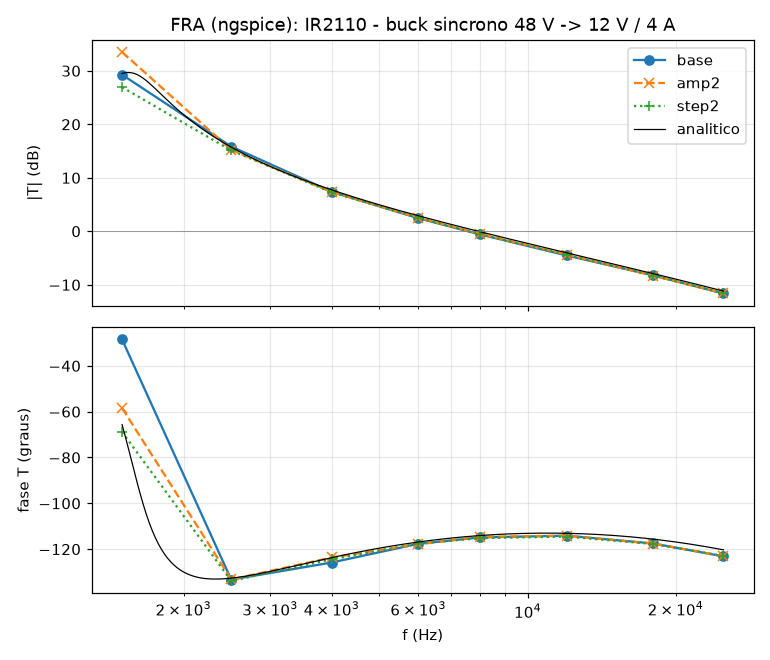
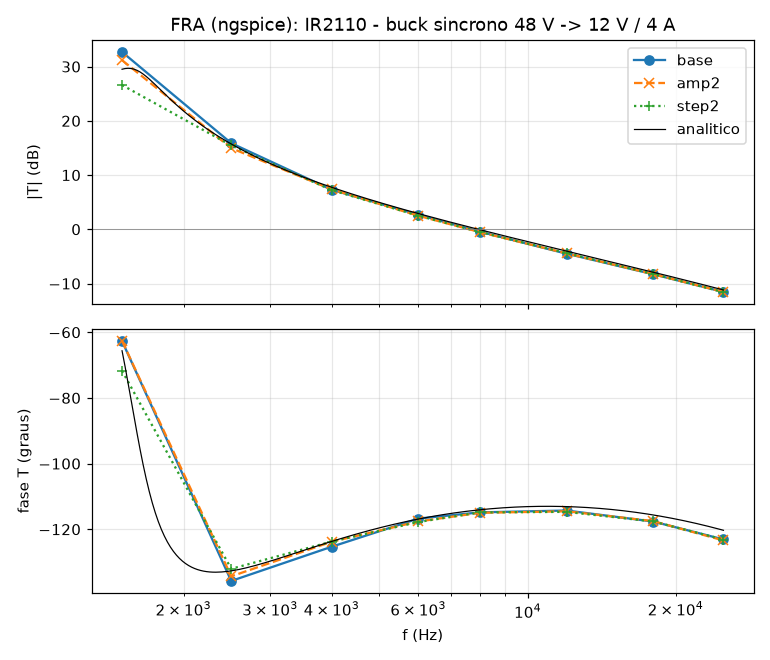
SG3524 README: max-step tables for the final model; IR2110 FRA rerun
SG3524: "What to put on the schematic" now shows the final model at
CT = 10 nF (failed toggles and period vs max step, Gear and trapezoidal:
0-1 failed toggles in 165 at any step, period 100.75-100.86 us) and at
CT = 1.25 nF, the push-pull example (21 of 94 toggles lost at 500 ns,
none in ~920 at 200 and 100 ns). Max-step advice: 1-2 % of the switching
period, and near or below the dead time when the outputs are separate.
Verification table, period-accuracy caveat and parameter list updated
(GDIS/VCTMIN/GLAT/TLAT/QON); Notes explain the rebuilt discharge cell.
Stale IDIS comments in SG3524.lib fixed; the push-pull example's max-step
comment now describes what the final model does at 500 ns.

IR2110: FRA rerun with the current tool (adjacent-bin noise estimate):
crossover 7.68 kHz, phase margin 64.9 deg, <= 0.18 dB / 1.6 deg, within
0.48 dB of the averaged loop gain.

tools/fra: optional step_factor for the smaller-step run (labelled by
its factor in the output), documented with save_extra.

Claude-Session: https://claude.ai/code/session_01FdFjTSNcxFBPGziKjDrh7o

diff --git a/tools/fra/fra_ngspice.py b/tools/fra/fra_ngspice.py
@@ -189,7 +189,11 @@ def main(cfgfile):
         s = re.sub(r"^(\.SUBCKT %s .*)$" % re.escape(sub), r"\1 PARAMS:", s, count=1, flags=re.M)
         open(os.path.join(workdir, ng), "w").write(s)
     A, dt = cfg["amp"], cfg["maxstep"]
-    variants = [("base", A, dt), ("amp2", 2 * A, dt), ("step2", A, dt / 2)]
+    # step_factor: the "dt/2" run uses dt*step_factor (0.5 unless the circuit
+    # cannot run at half the step - then say so in its config)
+    sf = cfg.get("step_factor", 0.5)
+    sl = "dt/2" if sf == 0.5 else "%gdt" % sf
+    variants = [("base", A, dt), ("amp2", 2 * A, dt), ("step2", A, dt * sf)]
     out = {}
     with cf.ThreadPoolExecutor(max_workers=3) as ex:
         stem = os.path.splitext(os.path.basename(cfgfile))[0]
@@ -205,7 +209,7 @@ def main(cfgfile):
         print("FAIL  %s: transiente com injecao nao completou" % title)
         return 1
     ana = cfg.get("analytic")
-    hdr = "%10s %9s %8s %6s | %7s %6s | %7s %6s | %9s" % ("f (Hz)", "|T| dB", "fase", "SNR", "d(2A)", "dfase", "d(dt/2)", "dfase", "tol dB/o")
+    hdr = "%10s %9s %8s %6s | %7s %6s | %7s %6s | %9s" % ("f (Hz)", "|T| dB", "fase", "SNR", "d(2A)", "dfase", "d(%s)" % sl, "dfase", "tol dB/o")
     if ana: hdr += " | %9s %8s" % ("analit dB", "fase")
     print(hdr)
     worst_g = worst_p = 0
@@ -239,7 +243,7 @@ def main(cfgfile):
             r2 = max(abs(ga - gs) / ag, abs(das) / ap)
             if r > 1 and r2 <= 1:
                 outliers += 1
-                line += "  <- nominal fora (2x e dt/2 concordam)"
+                line += "  <- nominal fora (2x e %s concordam)" % sl
                 r = r2
             else:
                 worst_g = max(worst_g, abs(ga - g), abs(gs - g))
@@ -252,11 +256,11 @@ def main(cfgfile):
     else:
         print("RESULT sem cruzamento de 0 dB na faixa medida")
     ok = worst_r <= 1 and judged >= 3
-    msg = ("linear (2x amplitude) e independente do passo (dt/2): pior desvio %.2f dB / %.1f graus nos %d pontos "
+    msg = ("linear (2x amplitude) e independente do passo (%s): pior desvio %.2f dB / %.1f graus nos %d pontos "
            "com SNR >= %g dB (%.0f %% da tolerancia, que e o maior entre %g dB / %g graus e 3 sigma do ruido)") % (
-        worst_g, worst_p, judged, snr_min, 100 * worst_r, tol_g, tol_p)
+        sl, worst_g, worst_p, judged, snr_min, 100 * worst_r, tol_g, tol_p)
     if outliers:
-        msg += "; %d ponto(s) com o nominal fora e 2x / dt/2 concordando" % outliers
+        msg += "; %d ponto(s) com o nominal fora e 2x / %s concordando" % (outliers, sl)
     if ana and fc:
         ga = [abs(20 * math.log10(abs(ana(r[0]))) - r[1]) for r in out["base"] if r[3] >= snr_min]
         msg += "; vs analitico ate %.2f dB" % max(ga)

diff --git a/SG3524/README.md b/SG3524/README.md
@@ -43,39 +43,41 @@ X1 1 2 3 4 5 6 7 8 9 10 11 12 13 14 15 16 SG3524
 One directive, and it is the `.tran` itself:
 
 ```
-.tran 0 <stop> 0 <maxstep>        e.g.  .tran 0 4m 0 50n
+.tran 0 <stop> 0 <maxstep>        e.g.  .tran 0 4m 0 100n
 ```
 
-**This one is not optional.** Set `maxstep` to roughly **a tenth of the dead
-time** (the dead time is 0.5 µs per 10 nF of C<sub>T</sub>): 50 ns at
-C<sub>T</sub> = 10 nF, 100 ns at 22 nF.
+Set `maxstep` to **1–2 % of the switching period**. The examples run at
+50–100 kHz with 100–200 ns, and their loop gain does not move when the step
+is halved (see *LTspice .FRA* below); a coarser step lands the PWM edges on
+the solver's step grid and the duty cycle jitters. If the power stage uses
+ideal switches (`S` elements), also add `.options method=gear` — the
+examples do, for the reason given in the same section.
 
-The reason is the blanking pulse. It *is* the dead time — 0.5 µs at
-C<sub>T</sub> = 10 nF — and it is the flip-flop's only clock. Let the solver
-take steps as long as that pulse and it steps straight over it, the flip-flop
-never sees a clock edge, and one output fires several cycles in a row while the
-other stays dark. Measured at C<sub>T</sub> = 10 nF:
+**With the outputs separate (push-pull), also keep `maxstep` near or below
+the dead time** (0.5 µs per 10 nF of C<sub>T</sub>). The blanking pulse *is*
+the dead time and the flip-flop's only clock; a step much longer than the
+pulse can skip it, and then the same output fires twice in a row — in a
+push-pull that walks the transformer towards saturation. With the outputs
+paralleled (buck, boost, …) a skipped toggle changes nothing. The discharge
+cell was rebuilt so that a long step cannot leave it half-way (see *Notes*),
+which made this rare, but not impossible. Measured at R<sub>T</sub> = 10 k
+("failed toggle" = the same output firing twice in a row):
 
-| maxstep | vs dead time | failed toggles |
-|---|---|---|
-| free running | — | 70 of 169 |
-| 500 ns | 1/1 | 76 of 168 |
-| 250 ns | 1/2 | 0 of 170 |
-| 100 ns | 1/5 | 0 of 168 |
-| 50 ns | 1/10 | 0 of 167 |
+| C<sub>T</sub> (dead time) | maxstep | failed toggles, Gear / trapezoidal | period, Gear / trapezoidal (cycle-to-cycle rms) |
+|---|---|---|---|
+| 10 nF (0.5 µs) | free running | 0 / 1 of 165 | 100.80 µs (0.01 %) / 100.82 µs (0.03 %) |
+| | 500 ns | 1 / 0 of 165 | 100.78 µs (0.04 %) / 100.83 µs (0.20 %) |
+| | 250 ns | 0 / 0 of 165 | 100.79 µs (0.05 %) / 100.86 µs (0.20 %) |
+| | 100 ns | 0 / 0 of 165 | 100.75 µs (0.04 %) / 100.84 µs (0.23 %) |
+| | 50 ns | 0 / 0 of 165 | 100.77 µs (0.07 %) / 100.84 µs (0.15 %) |
+| 1.25 nF (67 ns), the push-pull example | 500 ns | **21 of 94** (Gear) | 12.72 µs (0.08 %) |
+| | 200 ns | 0 / 0 of ~920 | 12.72 µs (0.08 %) / 12.74 µs (0.45 %) |
+| | 100 ns | 0 / 0 of ~920 | 12.72 µs (0.09 %) / 12.74 µs (0.41 %) |
 
-It survives down to half the dead time; a tenth leaves room for the rest of
-your circuit. Period accuracy improves on the same axis:
-
-| maxstep (C<sub>T</sub> = 22 nF) | period | valley |
-|---|---|---|
-| free running | 100.9 µs | 0.664 V |
-| 200 ns | 99.7 µs | 0.355 V |
-| 100 ns | 103.2 µs | 0.533 V |
-| 50 ns | 105.5 µs | 0.521 V |
-| 20 ns | 105.6 µs | 0.558 V |
-
-It has converged by 50 ns — 20 ns moves the answer by 0.1 %.
+At C<sub>T</sub> = 22 nF (Gear) the period is 221.5 µs and the valley
+0.593 V at every step from free running down to 20 ns. The period itself no
+longer depends on the step; only the toggling does, and only with steps as
+long as the dead time or longer (or none at all).
 
 **Do not relax the tolerances.** `reltol`, `abstol`, `vntol` and `trtol` should
 stay at their defaults. Relaxing them no longer breaks the model (it did before
@@ -167,9 +169,11 @@ X1 … SG3524 VREFNOM=4.6 VOS=10m IBIAS=10u DMAX=1
 ```
 
 Useful ones: `VREFNOM VDROP IREFSC ICC` (reference/supply), `VRT VCTL VCTH
-IDIS` (oscillator), `VCMIN VCMAX DMAX` (comparator), `GMEA IEAMAX VOS IBIAS
-REAO CEAO` (error amp), `VCLTH GCLV` (current limit), `VSDTH` (shutdown),
-`VCESAT RCE RLEAK` (output transistors).
+GDIS VCTMIN` (oscillator: ramp ends, discharge conductance and its floor),
+`VCMIN VCMAX DMAX` (comparator), `GMEA IEAMAX VOS IBIAS REAO CEAO` (error
+amp), `VCLTH GCLV` (current limit), `VSDTH` (shutdown), `VCESAT RCE RLEAK`
+(output transistors). `GLAT TLAT QON` set the discharge cell (see *Notes*);
+leave them alone unless you are changing the model.
 
 ## Verification
 
@@ -190,18 +194,18 @@ All 30 checks pass. What they pin down:
 | V<sub>REF</sub> load regulation at 20 mA | 20 mV | 20 mV typ |
 | V<sub>REF</sub> short-circuit current | 105 mA | 100 mA |
 | Standby I<sub>IN</sub> at V<sub>IN</sub> = 40 V | 8.0 mA | 8 mA typ, 10 mA max |
-| Oscillator period, R<sub>T</sub>=10 k, C<sub>T</sub>=10 nF | 101.0 µs | R<sub>T</sub>·C<sub>T</sub> = 100 µs |
-| …at C<sub>T</sub> = 100 nF / 2 nF / 1 nF | 1001 µs / 20.9 µs / 10.7 µs | 1000 / 20 / 10 µs |
+| Oscillator period, R<sub>T</sub>=10 k, C<sub>T</sub>=10 nF | 100.8 µs | R<sub>T</sub>·C<sub>T</sub> = 100 µs |
+| …at C<sub>T</sub> = 100 nF / 2 nF / 1 nF | 1006 µs / 20.28 µs / 10.20 µs | 1000 / 20 / 10 µs |
 | Dead time at C<sub>T</sub> = 0.01 µF | 0.50 µs | 0.5 µs |
-| Pin 3 amplitude | 3.48 V | 3.5 V<sub>p</sub> |
+| Pin 3 amplitude | 3.49 V | 3.5 V<sub>p</sub> |
 | Pin 6 voltage | 3.600 V | 3.6 V |
 | Duty at V(COMP) = 1.0 V | 0.0 % | zero duty threshold 1 V |
-| Duty at V(COMP) = 3.5 V | 45.0 % / output | max duty threshold 3.5 V, 45 % |
-| Duty at V(COMP) = 2.25 V | 22.5 % | linear |
-| Outputs paralleled | 89.4 % at f<sub>osc</sub> | 0–90 % single ended |
+| Duty at V(COMP) = 3.5 V | 44.6 % / output | max duty threshold 3.5 V, 45 % |
+| Duty at V(COMP) = 2.25 V | 21.6 % | linear |
+| Outputs paralleled | 89.2 % at f<sub>osc</sub> | 0–90 % single ended |
 | Output phasing | 180°, never overlapping | pulse-steering flip-flop + blanking |
-| V<sub>CE(sat)</sub> at 50 mA | 1.006 V | 1 V typ, 2 V max |
-| Current limit, 200 mV sense | 25.4 % duty | “input voltage required to get 25 % duty” |
+| V<sub>CE(sat)</sub> at 50 mA | 1.00 V | 1 V typ, 2 V max |
+| Current limit, 200 mV sense | 24.3 % duty | “input voltage required to get 25 % duty” |
 | Current limit, 100 / 300 mV | no action / outputs off | 200 mV threshold |
 | Shutdown pin 10 = 2 V | pin 9 → 0.22 V, outputs off | active high |
 | External sync on pin 3 | locks to 80 µs master | sync via pin 3 |
@@ -321,23 +325,15 @@ Read this before trusting a result.
   keeps working outside them, the real part does not.
 * **No 300 kHz ceiling.** That is a device limit, not a formula limit; the model
   will happily run past it.
-* **Period accuracy degrades at small C<sub>T</sub>.** Fixed internal delays
-  (latch, blanking edge, comparator windows) add a roughly constant amount to
-  every cycle, so the period runs +0.1 % at C<sub>T</sub> = 100 nF, +1 % at
-  10 nF and +7 % at 1 nF. That is the same mechanism that stops the real part
-  at 300 kHz, but do not expect three-digit frequency accuracy down at the
-  1 nF end.
+* **The period runs long by 0.6–2 %.** The ramp's valley sits a little below
+  0.6 V (the discharge cell's response time allows a small undershoot) and
+  fixed internal delays add a roughly constant amount to every cycle: +0.6 %
+  at C<sub>T</sub> = 100 nF, +0.8 % at 10 nF, +1.4 % at 2 nF, +2 % at 1 nF.
+  That is the same mechanism that stops the real part at 300 kHz; the
+  vendors' formulas disagree by 30 % among themselves anyway (see above).
 * **Reference line regulation is ideal** above the dropout point.
 * **Output edges** are a fixed ~47 ns drive slew; real edges (0.2 µs / 0.1 µs
   with R<sub>C</sub> = 2 k) are mostly set by your external load.
-* **Give the solver a sane maximum time step.** The CT discharge runs at
-  IDIS/C<sub>T</sub> volts per second - 15 V/µs with C<sub>T</sub> = 4.7 nF -
-  so a solver stepping at 20 ns moves the ramp 0.3 V per step and lands the
-  valley imprecisely. The floor at V<sub>CTMIN</sub> bounds the error to
-  0.1 V, but for clean results set the `.tran` maximum step to roughly a
-  tenth of the dead time (5 ns at C<sub>T</sub> = 4.7 nF). Measured valley
-  scatter: 0.45–0.58 V at 20 ns, 0.55–0.61 V at 5 ns; period jitter 3.5 %
-  vs 1.5 %.
 * **There is no `.op` solution while the oscillator runs** — an oscillator has
   no DC operating point, so the simulator will fall back to a transient start.
   That is expected and harmless for `.tran`. If you want a valid `.op` or an
@@ -357,6 +353,18 @@ Read this before trusting a result.
   network: a big capacitor on pin 9 slew-limits at 200 µA / C.
 * **The reference can only source.** Tying pins 15 and 16 to an external 5 V
   rail works, as the datasheet says it should.
+* **The C<sub>T</sub> discharge is resistive and its latch is not
+  regenerative.** C<sub>T</sub> discharges through a conductance (`GDIS`)
+  towards a floor below the reset threshold (`VCTMIN`), so near the reset it
+  is slowing down instead of racing through it, and a coarse step lands the
+  valley in the same place. The bit that says "discharging" is an
+  integrating set/reset cell (`GLAT`, `TLAT`, `QON`) that holds itself set
+  through the discharge but has no positive feedback, so it has no unstable
+  midpoint. An earlier version used an ordinary regenerative latch; Gear and
+  backward Euler, stepping far longer than its regeneration time, can treat
+  that midpoint as stable, and at some step sizes (50 and 100 ns, not 200 ns)
+  the buck example lost cycles or produced pulses 1.7 µs short. The
+  comments in `SG3524.lib` go through it in detail.
 
 ## Licence
 

diff --git a/IR2110/README.md b/IR2110/README.md
@@ -228,22 +228,23 @@ Result for the buck (100 kHz, crossover designed at 7.9 kHz):
 
 | f (Hz) | \|T\| (dB) | phase | SNR (dB) | Δ 2× amplitude | Δ dt/2 | analytic \|T\| / phase |
 |---:|---:|---:|---:|---:|---:|---:|
-| 1500 | 29.28 | −28.5° | −8.3 | *(not judged)* | *(not judged)* | 29.51 / −65.6° |
-| 2500 | 15.84 | −133.3° | 20.0 | 0.62 dB / 0.1° | 0.73 dB / 0.5° | 15.73 / −132.7° |
-| 4000 | 7.39 | −125.8° | 38.6 | 0.05 dB / 2.2° | 0.10 dB / 1.4° | 7.74 / −123.7° |
-| 6000 | 2.44 | −117.7° | 40.9 | 0.09 dB / 0.2° | 0.08 dB / 0.1° | 2.90 / −116.9° |
-| 8000 | −0.58 | −114.9° | 35.4 | 0.09 dB / 0.3° | 0.03 dB / 0.3° | −0.08 / −114.1° |
-| 12000 | −4.52 | −114.1° | 48.8 | 0.17 dB / 0.1° | 0.12 dB / 0.4° | −4.02 / −113.1° |
-| 18000 | −8.25 | −117.5° | 50.7 | 0.05 dB / 0.1° | 0.02 dB / 0.2° | −7.91 / −115.6° |
-| 25000 | −11.63 | −123.1° | 52.0 | 0.02 dB / 0.1° | 0.04 dB / 0.1° | −11.19 / −120.3° |
+| 1500 | 32.70 | −62.7° | 0.8 | *(not judged)* | *(not judged)* | 29.51 / −65.6° |
+| 2500 | 15.88 | −135.7° | 17.0 | *(not judged)* | *(not judged)* | 15.73 / −132.7° |
+| 4000 | 7.29 | −125.3° | 26.6 | 0.08 dB / 1.5° | 0.06 dB / 1.6° | 7.74 / −123.7° |
+| 6000 | 2.67 | −116.7° | 29.8 | 0.18 dB / 0.9° | 0.16 dB / 1.0° | 2.90 / −116.9° |
+| 8000 | −0.44 | −114.9° | 30.9 | 0.08 dB / 0.1° | 0.06 dB / 0.0° | −0.08 / −114.1° |
+| 12000 | −4.49 | −114.3° | 31.1 | 0.05 dB / 0.2° | 0.10 dB / 0.4° | −4.02 / −113.1° |
+| 18000 | −8.29 | −117.6° | 30.8 | 0.03 dB / 0.1° | 0.05 dB / 0.0° | −7.91 / −115.6° |
+| 25000 | −11.55 | −123.1° | 31.7 | 0.01 dB / 0.3° | 0.04 dB / 0.0° | −11.19 / −120.3° |
 
-**PASS — crossover 7.57 kHz, phase margin 64.6°.** Doubling the injection or
-halving the step moves the result by at most 0.73 dB / 2.2° on the seven
+**PASS — crossover 7.68 kHz, phase margin 64.9°.** Doubling the injection or
+halving the step moves the result by at most 0.18 dB / 1.6° on the six
 points with SNR ≥ 20 dB, and it matches the averaged small-signal loop gain
-within 0.50 dB. At 1.5 kHz the loop gain is ~30 dB: the signal left at
-V(out) is a fraction of a millivolt, buried in the 100 kHz ripple — that point
-is below the tool's 20 dB SNR floor in any FRA, LTspice's included, and is
-not judged.
+within 0.48 dB. At 1.5 and 2.5 kHz the loop gain is 16–33 dB: the signal
+left at V(out) is a fraction of a millivolt, buried in the 100 kHz ripple —
+those points are below the tool's 20 dB SNR floor (the noise is measured
+right next to the tone, in the same window) and are not judged. Even there
+the three runs agree within 1 dB / 4° at 2.5 kHz.
 
 ```
 python3 tools/fra/fra_ngspice.py tools/fra/configs/ir2110_buck.py   # ~25 min

diff --git a/tools/fra/README.md b/tools/fra/README.md
@@ -68,6 +68,8 @@ do passo isolaria a `dt/2`.
 | `freqs` | os tons, em ordem |
 | `settle_cycles`/`settle_time`, `meas_cycles`/`meas_time` | acomodação e janela de cada tom: o maior entre N ciclos e o tempo |
 | `amp`, `maxstep` | amplitude e passo da rodada nominal |
+| `step_factor` | (opcional) passo da terceira rodada = `maxstep`·fator; 0,5 por padrão. Só para um circuito que não roda com metade do passo — e o config tem de dizer por quê |
+| `save_extra` | (opcional) outros vetores para salvar (para conferir o ponto de operação) |
 | `analytic` | (opcional) ganho de malha teórico para comparar |
 | `plot` | onde salvar o gráfico de Bode |
 
